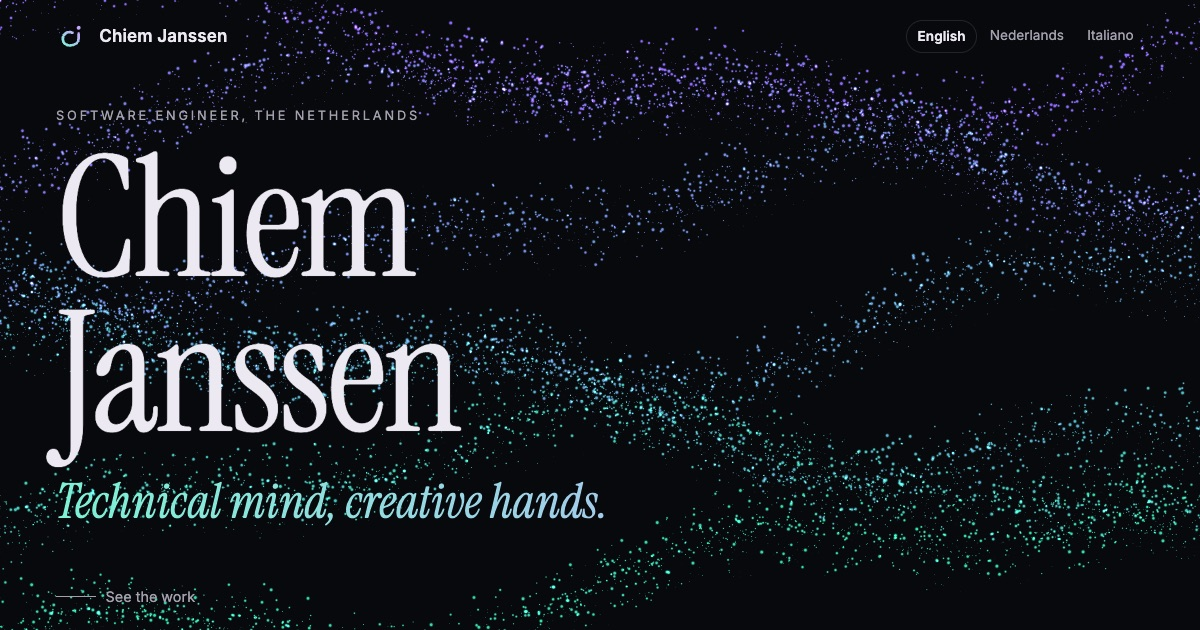
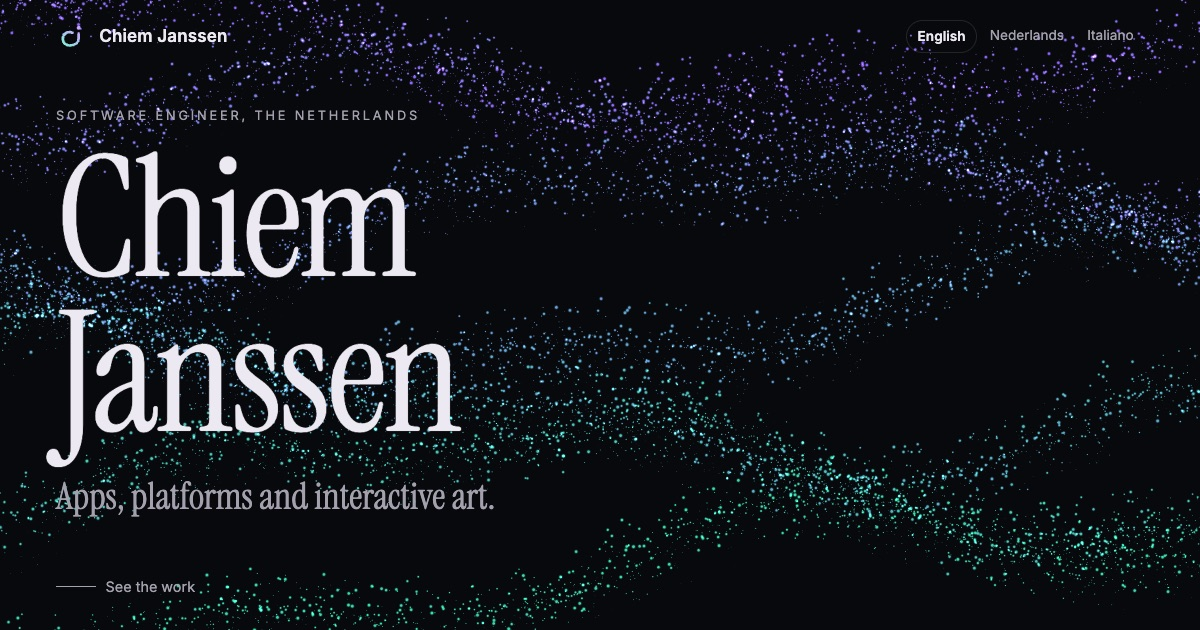
Plain line under the name, no Fitness privacy link on the homepage
- "Apps, platforms and interactive art." (nl, it translated) replaces
  the motto, set upright in a muted colour; page titles are just the name.
- The Fitness pages link their own privacy policy, so the homepage
  footer no longer does.

diff --git a/nl/index.html b/nl/index.html
@@ -3,7 +3,7 @@
 <head>
 <meta charset="utf-8">
 <meta name="viewport" content="width=device-width, initial-scale=1">
-<title>Chiem Janssen: technisch hoofd, creatieve handen</title>
+<title>Chiem Janssen</title>
 <meta name="description" content="Software engineer uit Nederland. Apps, platformen en interactieve kunst: Fitness, Reef, Debugged, Localeo en D-care.">
 <meta name="theme-color" content="#07090c">
 <link rel="icon" href="/favicon.svg" type="image/svg+xml">
@@ -14,7 +14,7 @@
 <link rel="alternate" hreflang="it" href="https://chiemjanssen.nl/it/">
 <link rel="alternate" hreflang="x-default" href="https://chiemjanssen.nl/">
 <meta property="og:type" content="website">
-<meta property="og:title" content="Chiem Janssen: technisch hoofd, creatieve handen">
+<meta property="og:title" content="Chiem Janssen">
 <meta property="og:description" content="Software engineer uit Nederland. Apps, platformen en interactieve kunst: Fitness, Reef, Debugged, Localeo en D-care.">
 <meta property="og:image" content="https://chiemjanssen.nl/assets/og-nl.jpg">
 <meta property="og:url" content="https://chiemjanssen.nl/nl/">
@@ -37,7 +37,7 @@
 <section class="hero" data-field="ink">
 <p class="kicker">Software engineer, Nederland</p>
 <h1>Chiem<br>Janssen</h1>
-<p class="tagline" lang="en">Technical mind, creative hands.</p>
+<p class="tagline">Apps, platformen en interactieve kunst.</p>
 <a class="scroll-cue" href="#work">Bekijk het werk</a>
 </section>
 
@@ -82,7 +82,6 @@
 </main>
 <footer>
 <span>&copy; Chiem Janssen</span>
-<a href="/fitness/privacy/nl/">Privacybeleid Fitness</a>
 </footer>
 </div>
 </div>

diff --git a/index.html b/index.html
@@ -3,7 +3,7 @@
 <head>
 <meta charset="utf-8">
 <meta name="viewport" content="width=device-width, initial-scale=1">
-<title>Chiem Janssen: technical mind, creative hands</title>
+<title>Chiem Janssen</title>
 <meta name="description" content="Software engineer from the Netherlands. Apps, platforms and interactive art: Fitness, Reef, Debugged, Localeo and D-care.">
 <meta name="theme-color" content="#07090c">
 <link rel="icon" href="/favicon.svg" type="image/svg+xml">
@@ -14,7 +14,7 @@
 <link rel="alternate" hreflang="it" href="https://chiemjanssen.nl/it/">
 <link rel="alternate" hreflang="x-default" href="https://chiemjanssen.nl/">
 <meta property="og:type" content="website">
-<meta property="og:title" content="Chiem Janssen: technical mind, creative hands">
+<meta property="og:title" content="Chiem Janssen">
 <meta property="og:description" content="Software engineer from the Netherlands. Apps, platforms and interactive art: Fitness, Reef, Debugged, Localeo and D-care.">
 <meta property="og:image" content="https://chiemjanssen.nl/assets/og-en.jpg">
 <meta property="og:url" content="https://chiemjanssen.nl/">
@@ -37,7 +37,7 @@
 <section class="hero" data-field="ink">
 <p class="kicker">Software engineer, the Netherlands</p>
 <h1>Chiem<br>Janssen</h1>
-<p class="tagline" lang="en">Technical mind, creative hands.</p>
+<p class="tagline">Apps, platforms and interactive art.</p>
 <a class="scroll-cue" href="#work">See the work</a>
 </section>
 
@@ -82,7 +82,6 @@
 </main>
 <footer>
 <span>&copy; Chiem Janssen</span>
-<a href="/fitness/privacy/">Fitness privacy policy</a>
 </footer>
 </div>
 </div>

diff --git a/it/index.html b/it/index.html
@@ -3,7 +3,7 @@
 <head>
 <meta charset="utf-8">
 <meta name="viewport" content="width=device-width, initial-scale=1">
-<title>Chiem Janssen: mente tecnica, mani creative</title>
+<title>Chiem Janssen</title>
 <meta name="description" content="Ingegnere del software dai Paesi Bassi. App, piattaforme e arte interattiva: Fitness, Reef, Debugged, Localeo e D-care.">
 <meta name="theme-color" content="#07090c">
 <link rel="icon" href="/favicon.svg" type="image/svg+xml">
@@ -14,7 +14,7 @@
 <link rel="alternate" hreflang="it" href="https://chiemjanssen.nl/it/">
 <link rel="alternate" hreflang="x-default" href="https://chiemjanssen.nl/">
 <meta property="og:type" content="website">
-<meta property="og:title" content="Chiem Janssen: mente tecnica, mani creative">
+<meta property="og:title" content="Chiem Janssen">
 <meta property="og:description" content="Ingegnere del software dai Paesi Bassi. App, piattaforme e arte interattiva: Fitness, Reef, Debugged, Localeo e D-care.">
 <meta property="og:image" content="https://chiemjanssen.nl/assets/og-it.jpg">
 <meta property="og:url" content="https://chiemjanssen.nl/it/">
@@ -37,7 +37,7 @@
 <section class="hero" data-field="ink">
 <p class="kicker">Ingegnere del software, Paesi Bassi</p>
 <h1>Chiem<br>Janssen</h1>
-<p class="tagline" lang="en">Technical mind, creative hands.</p>
+<p class="tagline">App, piattaforme e arte interattiva.</p>
 <a class="scroll-cue" href="#work">Guarda i lavori</a>
 </section>
 
@@ -82,7 +82,6 @@
 </main>
 <footer>
 <span>&copy; Chiem Janssen</span>
-<a href="/fitness/privacy/it/">Privacy di Fitness</a>
 </footer>
 </div>
 </div>

diff --git a/site.css b/site.css
@@ -71,12 +71,9 @@ nav.lang strong { color: var(--fg); border: 1px solid var(--line); font-weight: 
   letter-spacing: -.02em;
 }
 .tagline {
-  margin: 1.4rem 0 0;
-  font: italic 400 clamp(1.6rem, 4.6vw, 3rem)/1.15 var(--serif);
-  background: var(--grad);
-  -webkit-background-clip: text;
-  background-clip: text;
-  color: transparent;
+  margin: 1.5rem 0 0;
+  font: 400 clamp(1.4rem, 3.6vw, 2.3rem)/1.2 var(--serif);
+  color: var(--muted);
 }
 .scroll-cue { margin-top: 3.5rem; display: inline-flex; align-items: center; gap: .6rem; color: var(--muted); text-decoration: none; font-size: .9rem; }
 .scroll-cue::before { content: ""; width: 2.5rem; height: 1px; background: currentColor; }
@@ -98,7 +95,7 @@ section.block { padding: 5rem 0; }
 .project-head img { width: 3.5rem; height: 3.5rem; border-radius: .9rem; }
 .project-kind { margin: 0; color: var(--muted); font-size: .8rem; letter-spacing: .18em; text-transform: uppercase; }
 .project h3 { margin: 0; font: 400 clamp(2.6rem, 7vw, 4.5rem)/1 var(--serif); }
-.project p.body, .roles .what { text-shadow: 0 0 14px var(--bg), 0 0 4px var(--bg); }
+.tagline, .project p.body, .roles .what { text-shadow: 0 0 14px var(--bg), 0 0 4px var(--bg); }
 .project p.body { margin: 0 0 1.75rem; font-size: 1.1rem; color: var(--fg); max-width: 34rem; }
 .more {
   display: inline-flex; align-items: center; gap: .55rem;
